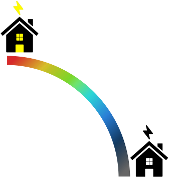
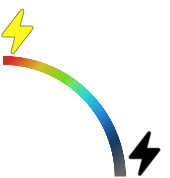
Data queries of multiple types can now properly concurrently execute. They will render on the screen at the same time. Safe guards exist to end queries that have already been superceded. Legend was updated.

diff --git a/PowerPlanner/war/Scripts/server_query.js b/PowerPlanner/war/Scripts/server_query.js
@@ -1,5 +1,115 @@
-function queryAndUpdate(season, neLat, neLng, swLat, swLng, lat_offset, lng_offset, type) {
-	console.time("_getHeatmapData");
+var data_query_handler = [];
+var dq_handler_id = 0;
+
+function launchQueryUpdate(season, types) {
+	var neLat = getNELatitude(g_map);
+	var neLng = getNELongitude(g_map);
+	var swLat = getSWLatitude(g_map);
+	var swLng = getSWLongitude(g_map);
+	
+	var queryObj = createQuerySet(types.wind, types.solar, types.hydro);
+	var dqh_l = data_query_handler.length;
+	if (dqh_l > 0) {
+		console.log("Query Updater: dropping " + dqh_l + (dqh_l > 1 ? " queries." : " query."));
+		data_query_handler = [];
+	}
+	data_query_handler.push(queryObj);
+	setTimeout(function() {}, 5);
+	
+	if (_queryIsActive(queryObj)) {
+		if (types.wind) {
+			_requestHeatmapData("WIND", season, neLat, neLng, swLat, swLng, queryObj);
+		}
+		if (types.solar) {
+			_requestHeatmapData("SOLAR", season, neLat, neLng, swLat, swLng, queryObj);
+		}
+		if (types.hydro) {
+			_requestHeatmapData("HYDRO", season, neLat, neLng, swLat, swLng, queryObj);
+		}
+	}
+}
+
+function createQuerySet(wind, solar, hydro) {
+	queryObj = { query_id : dq_handler_id++ };
+	
+	if (wind) {
+		queryObj["wind"] = false;
+	}
+	if (solar) {
+		queryObj["solar"] = false;
+	}
+	if (hydro) {
+		queryObj["hydro"] = false;
+	}
+	
+	return queryObj;
+}
+
+function _requestHeatmapData(type, season, neLat, neLng, swLat, swLng, queryObj) {
+	_.throttle(
+			_getHeatmapData(type, season, neLat, neLng, swLat, swLng, function(data) {
+				if (!_queryIsActive(queryObj)) {
+					console.log("Query object was dropped. Halting " + type + " process of id " +
+							queryObj.query_id);
+					return;
+				}
+				updateData(data, neLat, neLng, swLat, swLng, type);
+				if (!_queryIsActive(queryObj)) {
+					console.log("Query object was dropped. Halting " + type + " process of id " +
+							queryObj.query_id);
+					return;
+				}
+				_queryObjProgress(queryObj, type);
+				_tryUpdateHeatmap(queryObj);
+			}),
+			500,{leading:false});
+}
+
+/*
+ * Sends a POST request to the server for data within the provided latitude and
+ * longitude bounds of a particular type. Acceptable types are WIND, SOLAR, and
+ * HYDRO. Triggers a heatmap update upon server response.
+ */
+function _getHeatmapData(type, season, neLat, neLng, swLat, swLng, callback) {
+	console.time("_checkCacheData");
+	var lat_offset = getLatOffset(neLat, swLat);
+	var lng_offset = getLngOffset(neLng, swLng);
+
+	// requested grid
+	var neLat_w_off = (neLat + lat_offset);
+	var neLng_w_off = (neLng + lng_offset);
+	var swLat_w_off = (swLat - lat_offset);
+	var swLng_w_off = (swLng - lng_offset);
+	var neLat_floor = Math.floor(neLat_w_off);
+	var neLng_floor = Math.floor(neLng_w_off);
+	var swLat_floor = Math.floor(swLat_w_off);
+	var swLng_floor = Math.floor(swLng_w_off);
+
+	console.log("neLat: " + neLat_w_off);
+	console.log("neLng: " + neLng_w_off);
+	console.log("swLat: " + swLat_w_off);
+	console.log("swLng: " + swLng_w_off);
+
+	// Check whether cache has the requested data
+	var in_cache = checkCache(neLat_w_off, neLng_w_off, swLat_w_off, swLng_w_off, type);
+	
+	if(in_cache) {
+		console.log("IN CACHE");
+		var new_data = fetchFromCache(neLat_w_off, neLng_w_off, swLat_w_off, swLng_w_off, type);
+		updateData(new_data, neLat, neLng, swLat, swLng, type);
+		callback(new_data);
+		console.timeEnd("_checkCacheData");
+	} else {
+		console.timeEnd("_checkCacheData");
+		queryAndCallback(season, neLat, neLng, swLat, swLng, 
+				lat_offset, lng_offset, type, function(data) {
+					callback(data);
+		});
+	}
+}
+
+function queryAndCallback(season, neLat, neLng, swLat, swLng, lat_offset, lng_offset, type, callback) {
+	console.time("_queryServer");
 	var neLat_w_off = (neLat + lat_offset);
 	var neLng_w_off = (neLng + lng_offset);
 	var swLat_w_off = (swLat - lat_offset);
@@ -23,7 +133,7 @@ function queryAndUpdate(season, neLat, neLng, swLat, swLng, lat_offset, lng_offs
 
 				// Cache all points
 				addToCache(data, type, season);
-				updateData(data, neLat, neLng, swLat, swLng, type);
+				callback(data);
 			}
 			else {
 				console.log("Status: " + status);
@@ -35,10 +145,37 @@ function queryAndUpdate(season, neLat, neLng, swLat, swLng, lat_offset, lng_offs
 			console.log(error);
 		},
 		complete : function() {
-			updateHeatmap();
-			console.timeEnd("_getHeatmapData");
+			console.timeEnd("_queryServer");
 		}
 	});
+}
+
+function _queryIsActive(queryObj) {
+	var isActive = false;
+	for (var i = 0; i < data_query_handler.length; i++) {
+		if (data_query_handler[i].query_id === queryObj.query_id) {
+			isActive = true;
+			break;
+		}
+	}
+	return isActive;
+}
+
+function _queryObjProgress(queryObj, type) {
+	if (type == "WIND") {
+		queryObj.wind = true;
+	} else if (type == "SOLAR") {
+		queryObj.solar = true;
+	} else if (type == "HYDRO") {
+		queryObj.hydro = true;
+	}
+}
+
+function _tryUpdateHeatmap(queryObj) {
+	if (queryObj.wind !== false && queryObj.solar !== false && queryObj.hydro !== false) {
+		console.log("Query object success! Updating heatmap.");
+		updateHeatmap();
+	}
 }
 
 function buildURL() {
@@ -93,46 +230,4 @@ function getUrlParameter(sParam)
         }
     }
     return returnArr;
-}
-
-function queryAndCallback(season, neLat, neLng, swLat, swLng, lat_offset, lng_offset, type, callback) {
-	console.time("_queryServer");
-	var neLat_w_off = (neLat + lat_offset);
-	var neLng_w_off = (neLng + lng_offset);
-	var swLat_w_off = (swLat - lat_offset);
-	var swLng_w_off = (swLng - lng_offset);
-	
-	$.ajax({
-		url : '/powerdb',
-		type : 'POST',
-		data : {
-			type : type,
-			neLat : neLat_w_off,
-			neLng : neLng_w_off,
-			swLat : swLat_w_off,
-			swLng : swLng_w_off,
-			season : season
-		},
-		dataType : 'json',
-		success : function(data, status) {
-			if (status) {
-				console.log("Total Data Points: " + data.length);
-
-				// Cache all points
-				addToCache(data, type, season);
-				callback(data);
-			}
-			else {
-				console.log("Status: " + status);
-			}
-		},
-		error : function(thing, status, error) {
-			console.log("Error!");
-			console.log(status);
-			console.log(error);
-		},
-		complete : function() {
-			console.timeEnd("_queryServer");
-		}
-	});
 }

diff --git a/PowerPlanner/war/Scripts/map_helper.js b/PowerPlanner/war/Scripts/map_helper.js
@@ -4,7 +4,6 @@
  * = (the equals symbol) indicates a global var
  * 
  * server_query.js
- * - queryAndUpdate(season, neLat, neLng, swLat, swLng, lat_offset, lng_offset, type)
  * - queryAndCallback(season, neLat, neLng, swLat, swLng, lat_offset, lng_offset, type, callback)
  * 
  * cache_helper.js
@@ -151,7 +150,7 @@ function mapLoader() {
 	google.maps.event.addListener(g_map, 'dragend', _eventHeatmapDataToggler);
 	// Modify zoom state overhead when map is zoomed; load heatmap data
 	google.maps.event.addListener(g_map, 'zoom_changed', function() {
-		zoom = g_map.getZoom();
+		var zoom = g_map.getZoom();
 		view_state = (zoom <= CHANGETO_WIDE_VIEW ? 
 				(zoom <= CHANGETO_OVER_VIEW ? OVER_VIEW: WIDE_VIEW) : 
 					(zoom <= CHANGETO_AVE_VIEW ? AVE_VIEW : SMALL_VIEW));
@@ -170,8 +169,11 @@ function mapLoader() {
 	 * the map is not being moved.
 	 */
 	google.maps.event.addListener(g_map, 'idle', function() {
+		var zoom = g_map.getZoom();
 		var bound_listener = google.maps.event.addListener(g_map, 'bounds_changed', function() {
-			_eventHeatmapDataToggler();
+			if (g_map.getZoom() == zoom) {
+				_eventHeatmapDataToggler();
+			}
 		});
 		var this_listener = google.maps.event.addListener(g_map, 'dragstart', function() {
 				google.maps.event.removeListener(bound_listener);
@@ -198,75 +200,23 @@ function toggleHeatmapData(showWind, showSolar, showHydro) {
 		wind_data = [];
 		solar_data = [];
 		hydro_data = [];
-	
-		var neLat = getNELatitude(g_map);
-		var neLng = getNELongitude(g_map);
-		var swLat = getSWLatitude(g_map);
-		var swLng = getSWLongitude(g_map);
-		
+
 		console.log("===============");
 		console.log("Data Toggled:");
 		console.log("  Wind? " + showWind);
 		console.log("  Solar? " + showSolar);
 		console.log("  Hydro? " + showHydro);
 		console.log("===============");
-	
-		// throttle to prevent multiple requests at the same time
-		if (showWind) {
-			_.throttle(_getHeatmapData("WIND", neLat, neLng, swLat, swLng),500,{leading:false});
-		}
-	
-		if (showSolar) {
-			_.throttle(_getHeatmapData("SOLAR", neLat, neLng, swLat, swLng),500,{leading:false});
-		}
-	
-		if (showHydro) {
-			_.throttle(_getHeatmapData("HYDRO", neLat, neLng, swLat, swLng),500,{leading:false});
-		}
-	
-		if (!showWind && !showSolar && !showHydro) {
+		
+		if (showWind || showSolar || showHydro) {
+			launchQueryUpdate('anu', {
+				wind : showWind,
+				solar : showSolar,
+				hydro : showHydro 
+			});
+		} else {
 			updateHeatmap();
 		}
-	}
-}
-
-/*
- * Sends a POST request to the server for data within the provided latitude and
- * longitude bounds of a particular type. Acceptable types are WIND, SOLAR, and
- * HYDRO. Triggers a heatmap update upon server response.
- */
-function _getHeatmapData(type, neLat, neLng, swLat, swLng) {
-	console.time("_checkCacheData");
-	var lat_offset = getLatOffset(neLat, swLat);
-	var lng_offset = getLngOffset(neLng, swLng);
-
-	// requested grid
-	var neLat_w_off = (neLat + lat_offset);
-	var neLng_w_off = (neLng + lng_offset);
-	var swLat_w_off = (swLat - lat_offset);
-	var swLng_w_off = (swLng - lng_offset);
-	var neLat_floor = Math.floor(neLat_w_off);
-	var neLng_floor = Math.floor(neLng_w_off);
-	var swLat_floor = Math.floor(swLat_w_off);
-	var swLng_floor = Math.floor(swLng_w_off);
-
-	console.log("neLat: " + neLat_w_off);
-	console.log("neLng: " + neLng_w_off);
-	console.log("swLat: " + swLat_w_off);
-	console.log("swLng: " + swLng_w_off);
-
-	// Check whether cache has the requested data
-	var in_cache = checkCache(neLat_w_off, neLng_w_off, swLat_w_off, swLng_w_off, type);
-	
-	if(in_cache) {
-		console.log("IN CACHE");
-		var new_data = fetchFromCache(neLat_w_off, neLng_w_off, swLat_w_off, swLng_w_off, type);
-		updateData(new_data, neLat, neLng, swLat, swLng, type);
-		updateHeatmap();
-		console.timeEnd("_checkCacheData");
-	} else {
-		console.timeEnd("_checkCacheData");
-		queryAndUpdate('anu', neLat, neLng, swLat, swLng, lat_offset, lng_offset, type);
 	}
 }
 

diff --git a/PowerPlanner/war/Scripts/data_common_functions.js b/PowerPlanner/war/Scripts/data_common_functions.js
@@ -462,12 +462,9 @@ function populatePointData(pointDataObj, uniq_id) {
 	}
 	
 	if (solar_data.length) {
-		pointDataObj.solar_raw = extract_raw_weight(_getDataWeightSolar(solar_data, 
-																		pointDataObj.lat, 
-																		pointDataObj.lng), 
-													SOLAR_SCALER,
-													SOLAR_BOTTOM, "SOLAR")
-								 * HOUR_TO_YEAR;
+		pointDataObj.solar_raw = 
+			extract_raw_weight(_getDataWeightSolar(solar_data, pointDataObj.lat, pointDataObj.lng), 
+			SOLAR_SCALER, SOLAR_BOTTOM, "SOLAR") * HOUR_TO_YEAR;
 		$("#" + uniq_id + " .solarstring").html(pointDataObj.solar_raw.toFixed(2).toString());
 		_tryPopulateTotalEnergy(pointDataObj, uniq_id);
 	} else if (checkCache(neLat, neLng, swLat, swLng, "SOLAR")) {
@@ -475,24 +472,18 @@ function populatePointData(pointDataObj, uniq_id) {
 		var raw_data = fetchFromCache(pointDataObj.lat, pointDataObj.lng,
 				pointDataObj.lat, pointDataObj.lng, "SOLAR");
 		processData(raw_data, hm_data, neLat, neLng, swLat, swLng, "SOLAR");
-		pointDataObj.solar_raw = extract_raw_weight(_getDataWeightSolar(hm_data, 
-																		pointDataObj.lat, 
-																		pointDataObj.lng), 
-													SOLAR_SCALER,
-													SOLAR_BOTTOM, "SOLAR")
-								 * HOUR_TO_YEAR;
+		pointDataObj.solar_raw = 
+			extract_raw_weight(_getDataWeightSolar(hm_data, pointDataObj.lat, pointDataObj.lng), 
+			SOLAR_SCALER, SOLAR_BOTTOM, "SOLAR") * HOUR_TO_YEAR;
 		$("#" + uniq_id + " .solarstring").html(pointDataObj.solar_raw.toFixed(2).toString());
 		_tryPopulateTotalEnergy(pointDataObj, uniq_id);
 	} else {
 		queryAndCallback('anu', neLat, neLng, swLat, swLng, 0, 0, "SOLAR", function(data) {
 			var hm_data = [];
 			processData(data, hm_data, neLat, neLng, swLat, swLng, "SOLAR");
-			pointDataObj.solar_raw = extract_raw_weight(_getDataWeightSolar(hm_data, 
-																			pointDataObj.lat, 
-																			pointDataObj.lng), 
-														SOLAR_SCALER,
-														SOLAR_BOTTOM, "SOLAR")
-									 * HOUR_TO_YEAR;
+			pointDataObj.solar_raw = 
+				extract_raw_weight(_getDataWeightSolar(hm_data, pointDataObj.lat, pointDataObj.lng), 
+				SOLAR_SCALER, SOLAR_BOTTOM, "SOLAR") * HOUR_TO_YEAR;
 			$("#" + uniq_id + " .solarstring").html(pointDataObj.solar_raw.toFixed(2).toString());
 			_tryPopulateTotalEnergy(pointDataObj, uniq_id);
 		});
